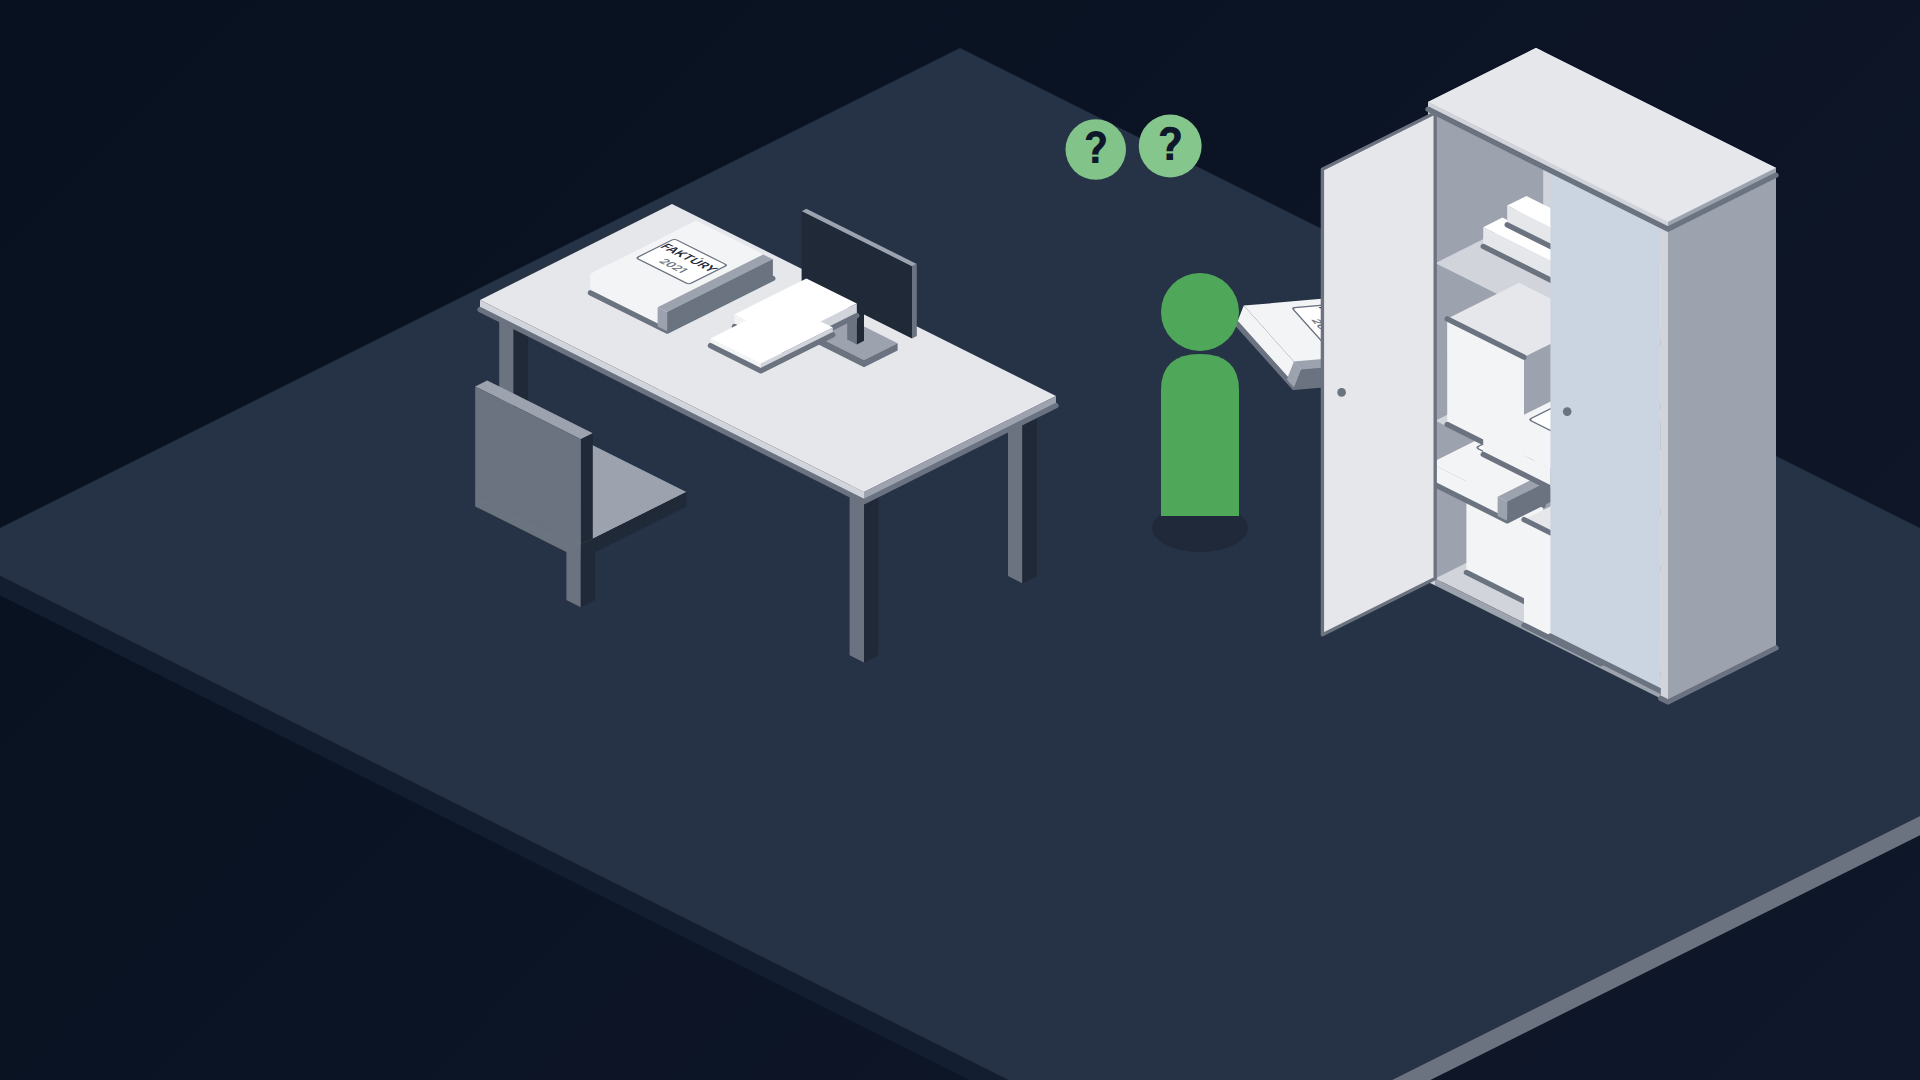
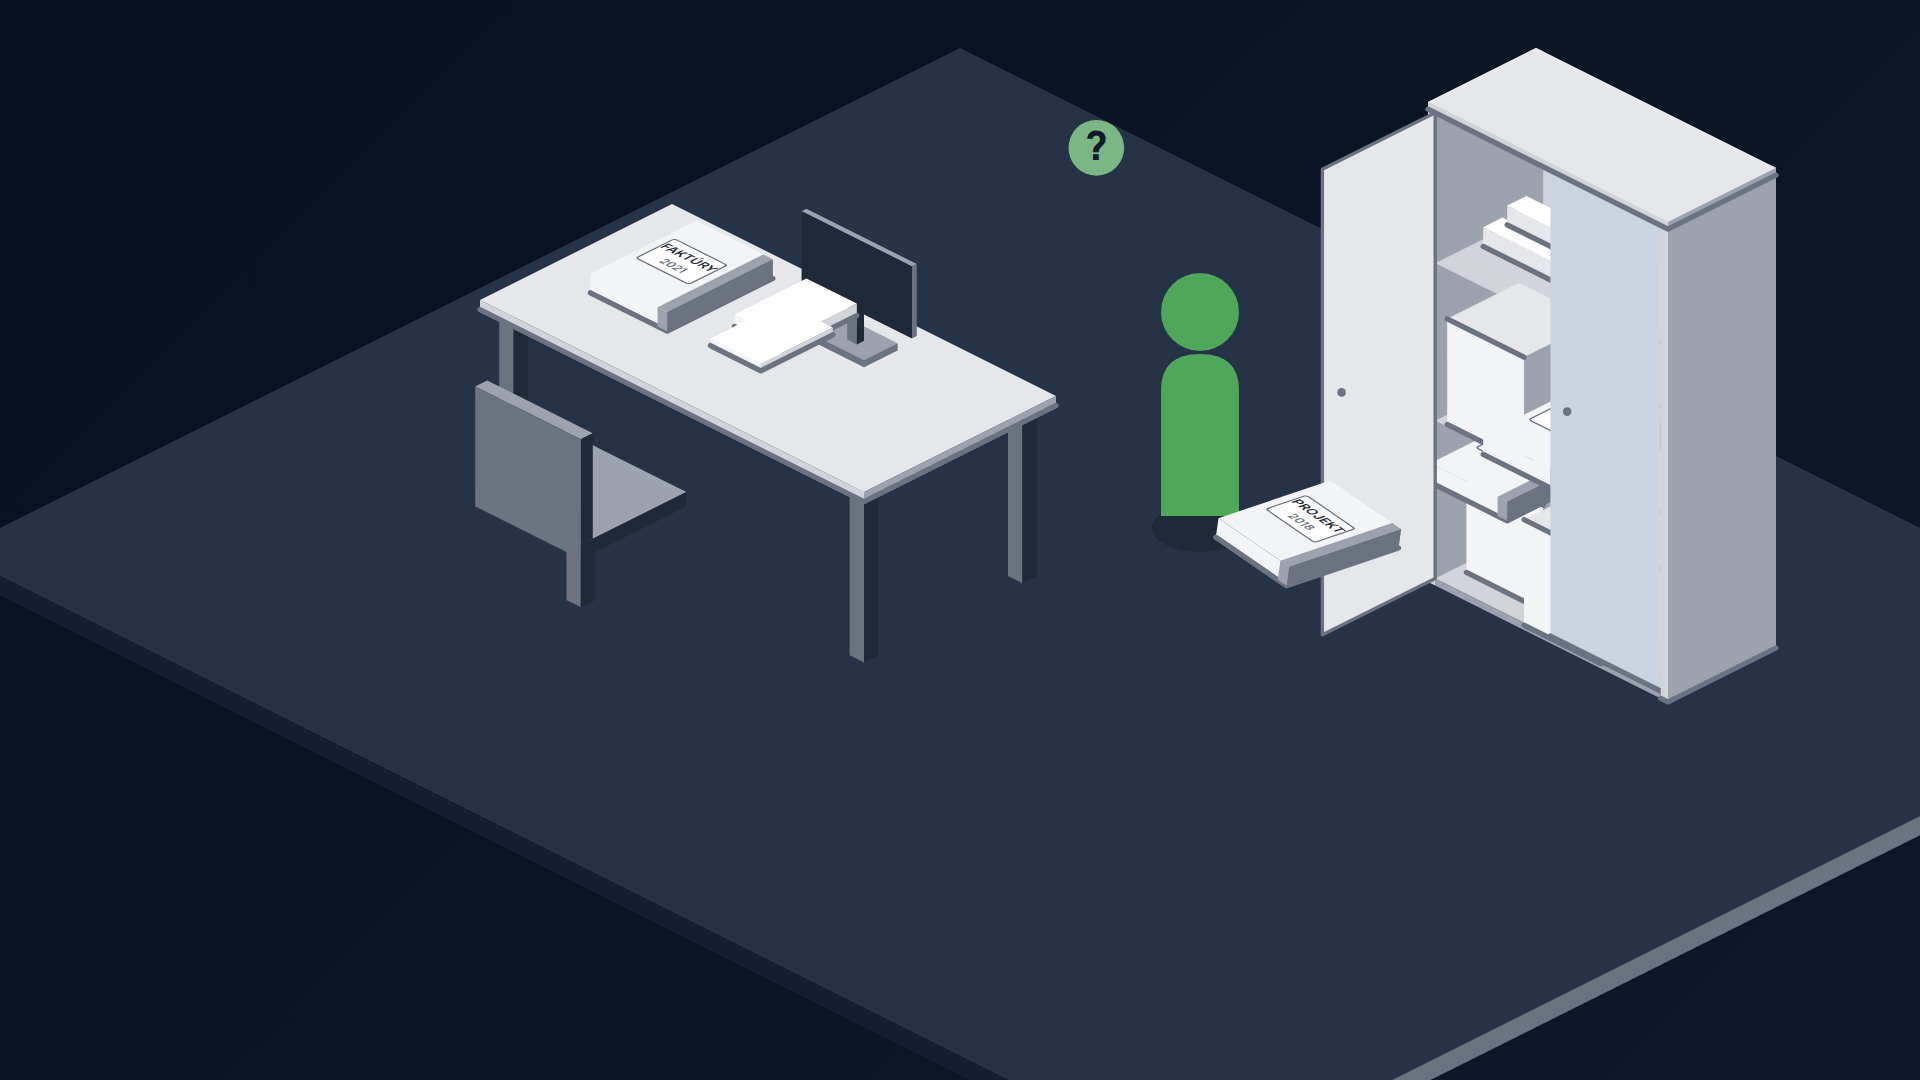
video: kolo 21 – C2-Hladanie: otázniky po vyhodených veciach, prestrih do suterénu, rýchle prehľadanie krabíc (12,5 s)
Claude-Session: https://claude.ai/code/session_0174g5XfE49UzAEjnWwaQFuK

Changed region(s): [[0.625, 0.4583, 0.75, 0.55], [0.625, 0.275, 0.6875, 0.3667], [0.5625, 0.0917, 0.625, 0.1833]]

diff --git a/video/src/scenes/C2_Hladanie.tsx b/video/src/scenes/C2_Hladanie.tsx
@@ -8,26 +8,27 @@ import { Floor, Person, QuestionMark } from '../components/Illustrations';
 import { pop, settle, tween } from '../lib/anim';
 import { captions } from '../copy/sk';
 import { BRAND, CM, ISO, SAFE } from '../theme';
-import { CAM_END, PALLETS, SEARCH_QMS, SHELF_LEVEL, SHELVES, SV, SearchCarton, TARGET_SHELF, VB, searchBox } from './C3_Sklad';
+import { CAM_END, PALLETS, SEARCH_QMS, SHELF_LEVEL, SHELVES, SV, SearchCarton, TARGET_SHELF, VB } from './C3_Sklad';
 
 /**
- * C2 - Hladanie (verzia 2: spojene C2 Kancelaria + C3 Sklad, 14,5 s).
- * Kancelaria: panacik otvori skrinu, "?", vyhodi sanon a rolku, odide doprava.
- * Kamera s nim prejde (pan) do skladu: panacik pride k regalu, kamera
- * najde na policu, obe krabice sa postupne vytiahnu, prehladaju a vratia;
- * "?" nad regalom = zaciatok C4.
+ * C2 - Hladanie (verzia 2: spojene C2 Kancelaria + C3 Sklad, 12,5 s).
+ * Kancelaria: panacik otvori skrinu, vyhodi sanon a rolku (po kazdej veci
+ * vyskoci "?"), odide doprava. Prestrih: sklad je v suterene - platna s
+ * kancelariou sa posunie hore a odhali sklad. Panacik pride k regalu, kamera
+ * najde na policu; prva krabica von, veko, vsetky zlozky naraz hore, "?";
+ * druha to iste; velky "?" nad regalom = zaciatok C4.
  *
- * ms: 0 kancelaria · 300-1100 panacik ku skrini · 1100-1700 dvere · 1400/1900
- * "?" · 2000/2500 vyhodeny sanon a rolka · 3200-4100 panacik odchadza ·
- * 4200-5200 pan do skladu · 4700-6500 chodza k regalu · 5100/5700 "?" ·
- * 6000-7400 kamera na policu, 6500 sklad vybledne · 6500 krabica A von ·
- * 6900-10300 A: otvorit, 3 zlozky, zavriet, zasunut · 9900 krabica B von ·
- * 10300-13700 B to iste · 13800 "?".
+ * ms: 300-1100 panacik ku skrini · 1100-1700 dvere · 2000/2500 vyhodeny
+ * sanon a rolka, 2300/2800 "?" · 3200-4100 panacik odchadza · 4200-5400
+ * prestrih hore (suteren) · 5000-6600 chodza k regalu · 5400/6000 "?" ·
+ * 6300-7600 kamera na policu, 6700 sklad vybledne · 6900-9500 krabica A
+ * (von, veko, zlozky naraz, "?", spat) · 9200-11800 krabica B · 11900 "?".
  */
 const PX = 2.4;
 const CAB = { x: 280, y: 40 };
 const LEVEL = (CM.cabinet.h - 3) / 3;
 const PAN_AT = 4200;
+const PAN_MS = 1200;
 
 const TopLabel: React.FC<{ x: number; y: number; z: number; lines: [string, string] }> = ({ x, y, z, lines }) => {
   const [ox, oy] = iso(x, y, z);
@@ -61,7 +62,7 @@ const Office: React.FC<{ frame: number }> = ({ frame }) => {
   const open = tw(1100, 600);
   const leave = tw(3200, 900); // odide doprava von z framu skor, nez zacne pan
   const qmOut = 1 - tw(3100, 300);
-  const qm = [pop(frame, 1400) * qmOut, pop(frame, 1900) * qmOut];
+  const qm = [pop(frame, 2300) * qmOut, pop(frame, 2800) * qmOut]; // otaznik vyskoci po kazdej vyhodenej veci
   // panacik: ku skrini, potom odchadza doprava (pred skrinou) von z framu
   const atX = CAB.x - 70,
     atY = CAB.y + 70;
@@ -70,8 +71,8 @@ const Office: React.FC<{ frame: number }> = ({ frame }) => {
   const [sx, sy] = iso(px, py, 0);
   // vyhodene veci: sanon a rolka, obluk zo skrine na podlahu, dopad v rade
   const thrown = [
-    { start: 2000, tx: CAB.x - 30, ty: CAB.y + 100, kind: 'b' as const },
-    { start: 2500, tx: CAB.x + 15, ty: CAB.y + 96, kind: 'r' as const },
+    { start: 2000, tx: CAB.x + 5, ty: CAB.y + 106, kind: 'b' as const },
+    { start: 2500, tx: CAB.x + 55, ty: CAB.y + 100, kind: 'r' as const },
   ];
 
   return (
@@ -82,21 +83,6 @@ const Office: React.FC<{ frame: number }> = ({ frame }) => {
       <Lying x={60} y={170} z={75} label={['FAKTÚRY', '2021']} />
       <Papers x={104} y={168} z={75} h={5} />
       <Papers x={112} y={186} z={80} h={3} />
-      {thrown.map((it, i) => {
-        const t = tw(it.start, 700);
-        if (t <= 0) return null;
-        const sxp = CAB.x + 20,
-          syp = CAB.y + 60;
-        const x = sxp + (it.tx - sxp) * t,
-          y = syp + (it.ty - syp) * t;
-        const zz = 90 * (1 - t) + 80 * Math.sin(Math.PI * t);
-        const [cx, cy] = iso(x + 16, y + 15, zz);
-        return (
-          <g key={i} transform={`rotate(${(1 - t) * 40} ${cx} ${cy})`}>
-            {it.kind === 'b' ? <Lying x={x} y={y} z={zz} /> : <Roll x={x} y={y + 8} z={zz} len={90} />}
-          </g>
-        );
-      })}
       <Cabinet x={CAB.x} y={CAB.y} open={open}>
         {[4, 38, 62].map((bx, i) => (
           <Binder key={`b0${i}`} x={CAB.x + 3 + bx} y={CAB.y + 6 + [0, 10, 2][i]} z={3} d={30} />
@@ -113,6 +99,21 @@ const Office: React.FC<{ frame: number }> = ({ frame }) => {
         <Papers x={CAB.x + 62} y={CAB.y + 10} z={2 * LEVEL + 3} h={6} />
       </Cabinet>
       <Person x={sx} y={sy} scale={1.25} color={BRAND[400]} opacity={tw(200, 300)} />
+      {thrown.map((it, i) => {
+        const t = tw(it.start, 700);
+        if (t <= 0) return null;
+        const sxp = CAB.x + 20,
+          syp = CAB.y + 60;
+        const x = sxp + (it.tx - sxp) * t,
+          y = syp + (it.ty - syp) * t;
+        const zz = 90 * (1 - t) + 80 * Math.sin(Math.PI * t);
+        const [cx, cy] = iso(x + 16, y + 15, zz);
+        return (
+          <g key={i} transform={`rotate(${(1 - t) * 40} ${cx} ${cy})`}>
+            {it.kind === 'b' ? <Lying x={x} y={y} z={zz} /> : <Roll x={x} y={y + 8} z={zz} len={90} />}
+          </g>
+        );
+      })}
       {qm.map((s, i) => {
         const bob = Math.sin(frame / 10 + i * 2.1) * 3;
         const [qx, qy] = iso(atX - 46 + i * 30 + Math.sin(frame / 14 + i) * 1.5, atY - 4, 130 + (i % 2) * 18 + bob);
@@ -131,9 +132,17 @@ const PATH: [number, number][] = [
   [305, 120],
   [305, 138],
 ];
+/** Rychle prehladanie: krabica von, veko, vsetky zlozky naraz hore, "?", spat, veko, zasunut (2,2 s). */
+const fastSearch = (tw: (s: number, d: number) => number, start: number) => {
+  const out = tw(start - 400, 400) * (1 - tw(start + 1800, 400));
+  const lid = tw(start, 400) * (1 - tw(start + 1500, 400));
+  const binders = [0, 1, 2].map((i) => tw(start + 300 + i * 60, 300) * (1 - tw(start + 1200, 300))) as [number, number, number];
+  return { out, lid, binders };
+};
+
 const Warehouse: React.FC<{ frame: number }> = ({ frame }) => {
   const tw = (s: number, d: number) => tween(frame, s, d);
-  const walk = tw(4700, 1800); // panacik vojde do skladu, ked je uz sklad v zabere
+  const walk = tw(5000, 1600); // panacik vojde do skladu, ked je uz sklad v zabere
   const seg = Math.min(PATH.length - 2, Math.floor(walk * (PATH.length - 1)));
   const lt = walk * (PATH.length - 1) - seg;
   const px = PATH[seg][0] + (PATH[seg + 1][0] - PATH[seg][0]) * lt;
@@ -142,13 +151,13 @@ const Warehouse: React.FC<{ frame: number }> = ({ frame }) => {
   const walked: [number, number][] = [...PATH.slice(0, seg + 1), [px, py]];
   const pathD = walked.map(([x, y], i) => `${i ? 'L' : 'M'}${iso(x, y, 0).join(' ')}`).join(' ');
   const qm: [number, number, number, number][] = [
-    [140, 60, 5100, 0],
-    [420, 60, 5700, 80],
+    [140, 60, 5400, 0],
+    [420, 60, 6000, 80],
   ];
-  const others = 1 - tw(6500, 500);
-  const A = searchBox(tw, 6900);
-  const B = searchBox(tw, 10300);
-  const qEnd = pop(frame, 13800);
+  const others = 1 - tw(6700, 500);
+  const A = fastSearch(tw, 7300);
+  const B = fastSearch(tw, 9600);
+  const qEnd = pop(frame, 11900);
 
   const Stack: React.FC<{ x: number; y: number }> = ({ x, y }) => (
     <g>
@@ -162,7 +171,7 @@ const Warehouse: React.FC<{ frame: number }> = ({ frame }) => {
   );
 
   return (
-    <Camera keys={[{ ms: 6000, x: 0, y: 0, scale: 1 }, { ms: 7400, ...CAM_END }]}>
+    <Camera keys={[{ ms: 6300, x: 0, y: 0, scale: 1 }, { ms: 7600, ...CAM_END }]}>
       <svg width={1920} height={1080} viewBox={`${VB.x} ${VB.y} ${1920 / SV} ${1080 / SV}`} style={{ position: 'absolute', left: 0, top: 0 }}>
         <g opacity={others}>
           <Floor x={-60} y={-60} w={560} d={560} fill="#263246" edge="#131F31" />
@@ -187,7 +196,7 @@ const Warehouse: React.FC<{ frame: number }> = ({ frame }) => {
                 }
               </ShelfFrame>
               {isTarget
-                ? [7400, 10800].map((ms, k) => {
+                ? [7800, 10100].map((ms, k) => {
                     // bublinka "?" pri vytiahnuti prvej zlozky z kazdej krabice
                     const q = SEARCH_QMS[k];
                     const life = tw(ms, 2000);
@@ -210,12 +219,12 @@ const Warehouse: React.FC<{ frame: number }> = ({ frame }) => {
             <Stack key={i} x={p.x} y={p.y} />
           ))}
           {qm.map(([x, y, s0, z], i) => {
-            const s = pop(frame, s0) * (1 - tw(6000, 500));
+            const s = pop(frame, s0) * (1 - tw(6300, 500));
             const [qx, qy] = iso(x, y, 140 + z);
             return <QuestionMark key={i} x={qx} y={qy} s={s * 1.8} />;
           })}
         </g>
-        <Person x={sx} y={sy} scale={1.4} color={BRAND[400]} opacity={tw(4700, 200) * (1 - tw(6300, 600))} />
+        <Person x={sx} y={sy} scale={1.4} color={BRAND[400]} opacity={tw(5000, 200) * (1 - tw(6500, 600))} />
       </svg>
     </Camera>
   );
@@ -225,19 +234,19 @@ export const C2_Hladanie: React.FC = () => {
   const frame = useCurrentFrame();
   const showCap = useCaptions();
   const tw = (s: number, d: number) => tween(frame, s, d);
-  const pan = tw(PAN_AT, 1000);
+  const pan = tw(PAN_AT, PAN_MS);
 
   return (
     <Scene mode="dark">
-      {/* pan kamery: kancelaria odide dolava, sklad pride sprava (obe navy, spojite) */}
-      <div style={{ position: 'absolute', inset: 0, transform: `translateX(${-1920 * pan}px)` }}>
+      {/* prestrih: sklad je v suterene - platna s kancelariou sa posunie hore a odhali platnu so skladom pod nou */}
+      <div style={{ position: 'absolute', inset: 0, transform: `translateY(${-1080 * pan}px)` }}>
         {pan < 1 ? (
           <div style={{ position: 'absolute', left: 0, top: 0, width: 1920, height: 1080, overflow: 'hidden' }}>
             <Office frame={frame} />
           </div>
         ) : null}
         {pan > 0 ? (
-          <div style={{ position: 'absolute', left: 1920, top: 0, width: 1920, height: 1080, overflow: 'hidden' }}>
+          <div style={{ position: 'absolute', left: 0, top: 1080, width: 1920, height: 1080, overflow: 'hidden' }}>
             <Warehouse frame={frame} />
           </div>
         ) : null}
@@ -245,7 +254,7 @@ export const C2_Hladanie: React.FC = () => {
       {showCap ? (
         <>
           <Caption text={captions.C2} mode="dark" t={settle(frame, 1500)} out={tw(4000, 300)} y={SAFE.captionY} />
-          <Caption text={captions.C2b} mode="dark" t={settle(frame, 8000)} y={SAFE.captionY} />
+          <Caption text={captions.C2b} mode="dark" t={settle(frame, 7800)} y={SAFE.captionY} />
         </>
       ) : null}
     </Scene>

diff --git a/video/src/scenesList.ts b/video/src/scenesList.ts
@@ -18,7 +18,7 @@ export type SceneDef = { component: React.FC; seconds: number; stills: number[] 
 /** Klipy (kolo 3), dlzka v sekundach a frame-y pre stills (zaciatok akcie, stred, koniec). */
 export const SCENE_LIST: [string, SceneDef][] = [
   ['C1-Intro', { component: C1_Intro, seconds: 5, stills: [45, 75, 125] }],
-  ['C2-Hladanie', { component: C2_Hladanie, seconds: 14.5, stills: [70, 180, 340] }],
+  ['C2-Hladanie', { component: C2_Hladanie, seconds: 12.5, stills: [75, 150, 250] }],
   ['C4-Cena', { component: C4_Cena, seconds: 9, stills: [10, 110, 250] }],
   ['C5-Teren', { component: C5_Teren, seconds: 10, stills: [70, 170, 285] }],
   ['F1-Sken', { component: F1_Sken, seconds: 12.5, stills: [30, 200, 350] }],

diff --git a/video/STORYBOARD.md b/video/STORYBOARD.md
@@ -12,7 +12,7 @@ strihový bod pre footage; náhľad Full má tvrdé strihy. Titulky v obraze sú
 | ID | Klip | Pozadie | Dej | Text v obraze | Dĺžka | Stav |
 |---|---|---|---|---|---|---|
 | C1-Intro | Intro | navy | Lockup podľa assetin-design-kitu: stohovaný logotyp „assetin“ / „.space“ vypláva, zvislý oddeľovač sa nakreslí, „Archives“ vyjde spoza neho; hold; „Archives“ sa zasunie späť, oddeľovač sa stiahne, logotyp sa priblíži a vybledne do navy | – | 5 s | ☐ ▶ |
-| C2-Hladanie | Hľadanie (kancelária → sklad) | navy | Panáčik príde ku skrini, otvorí ju, „?“, vyletí šanón a rolka, odíde doprava; kamera s ním prejde panom do skladu; klučkuje k strednému regálu, „?“; kamera nájde na policu, sklad vybledne; prvá krabica sa vytiahne z police, otvorí (vidno steny, dno, zložky), zložky sa postupne vyberú a vrátia (bublinka „?“), zavrie, zasunie; to isté druhá; väčší „?“ nad regálom = začiatok C4 | 1,5 s „Dokumentáciu máte. V kancelárii, v sklade… niekde.“ · 8 s „Len ju nikto nevie nájsť.“ | 14,5 s | ☐ ▶ |
+| C2-Hladanie | Hľadanie (kancelária → sklad) | navy | Panáčik príde ku skrini, otvorí ju, vyletí šanón („?“) a rolka („?“), odíde doprava; prestrih: platňa s kanceláriou ide hore a spod nej sa vysunie sklad (suterén); panáčik klučkuje k strednému regálu, „?“; kamera nájde na policu, sklad vybledne; prvá krabica von, veko, všetky zložky naraz hore, bublinka „?“, späť, zasunúť; druhá to isté; väčší „?“ nad regálom = začiatok C4 | 1,5 s „Dokumentáciu máte. V kancelárii, v sklade… niekde.“ · 7,8 s „Len ju nikto nevie nájsť.“ | 12,5 s | ☐ ▶ |
 | C4-Cena | 2× | navy | Začína rovnakým regálom ako koniec C3; regál sa odsunie doľava, vedľa neho veľký „?“, vedľa hodiny rovnakej veľkosti s točiacou sa ručičkou (hľadanie trvá), šípka k výkresu s pečiatkou (rýchlejšie spraviť nanovo); veľké cenovky pod regálom a výkresom; „2× €€€“ dole v strede | 5,8 s „Zaplatené dvakrát za tú istú dokumentáciu.“ | 9 s | ☐ ▶ |
 | C5-Teren →📹 | V sklade | biela | Zatvorená krabica, priletí hárok nálepiek A4, z neho odletí QR na krabicu (plynulý let 0,7 s, dosadne sklopená do roviny steny); veko sa otvorí, zložky vyjdú a z hárku priletia QR na každú zložku; zložky majú štítky s textom; predná sa vytiahne z krabice, mobil sa k nej priblíži a zameria na štítok, blesk, ID ZL_12 ako štítok pri rámiku; kamera nájde na zložku s mobilom a potom nájazd do displeja → biely frame = strih do reality (footage fotenia štítku) | 5 s „Nalepiť QR, odfotiť. Celá práca v teréne.“ | 10 s | ☐ ▶ |
 | F1-Sken 📹 | Footage: sken štítku | footage | Screen recording z mobilu (2 časti spojené): pridanie jednotky pod KR_01 → Priradiť QR → fotoaparát na štítok s QR → Use Photo → kontrola jednotky → Vytvoriť → nahrávanie prílohy 100 % (zrýchlené 4×). Orez na appku (bez líšt iOS/Safari), vnútri rámika mobilu vľavo; z bieleho konca C5 sa displej stiahne do mobilu; vpravo sprievodný text po krokoch (Krok 1–4) s bodkami postupu; jemné zelené tapy na tlačidlách; fade do bielej (C6) | – | 12,5 s | ☐ ▶ |
@@ -61,7 +61,7 @@ Všetko 1920×1080, 30 fps, H.264, yuv420p (obmedzený rozsah), bez zvuku.
 | Súbor | Obsah |
 |---|---|
 | `out/mp4/C1-Intro.mp4` … `C9-Outro.mp4` | klipy bez textu v obraze (titulky vypnuté, doriešia sa neskôr) |
-| `out/mp4/Full_1080p.mp4` | všetkých 9 klipov za sebou, tvrdé strihy, 82 s – kontrola tempa |
+| `out/mp4/Full_1080p.mp4` | všetkých 9 klipov za sebou, tvrdé strihy, 80 s – kontrola tempa |
 | `out/mp4/Full_preview_540p.mp4` | to isté v polovičnom rozlíšení |
 | `out/mp4/F_phone_enter.mp4`, `F_window_enter.mp4` | placeholder rámika zariadenia (8 s), do ktorého sa v Remotione dá vložiť footage |
 | `out/stills/contact-sheet.png` | stredný frame každého klipu v mriežke |

diff --git a/video/FEEDBACK.md b/video/FEEDBACK.md
@@ -145,3 +145,9 @@ Verzia 1 (dlhá, 88,5 s) je uložená: `out/mp4/v1/` (Full_v1_1080p.mp4, Full_v1
 | Klip | Zadanie | Riešenie |
 |---|---|---|
 | C2 Hľadanie | Teraz je to zas extrémne rýchle; v kancelárii nech vyhodí zo skrine aspoň dve veci; v sklade treba postupne prehľadať obe krabice. | Klip predĺžený z 11 na 14,5 s. Kancelária: vyletí šanón aj rolka (2,0 / 2,5 s), panáčik odchádza až v 3,2 s, pan do skladu 4,2–5,2 s. Sklad: chôdza 1,8 s, kamera na policu 6,0–7,4 s, krabica A sa vytiahne, prehľadá a zasunie (6,5–10,3 s), potom to isté krabica B (9,9–13,7 s), pri každej bublinka „?“; veľký „?“ 13,8 s. Full 82 s. |
+
+## Kolo 21 (22. 9. 2026)
+
+| Klip | Zadanie | Riešenie |
+|---|---|---|
+| C2 Hľadanie | Otázniky v kancelárii až po vytiahnutí položiek (prvá vec → „?“, druhá → „?“). Prebehnutie do skladu je príliš rýchle; radšej prestrih: sklad je v suteréne, platňa s kanceláriou sa posunie hore a odhalí platňu so skladom. V sklade zrýchliť: prvá krabica, všetky zložky naraz vystrčiť, „?“, druhá to isté, a ďalej ďalšia scéna. | „?“ vyskočí 0,3 s po každej vyhodenej veci (2,3 / 2,8 s); vyhodené veci dopadajú pred panáčika (nie pod neho). Prestrih vertikálne: platňa s kanceláriou ide hore (1,2 s, 4,2–5,4 s) a spod nej sa vysunie sklad ako suterén. Sklad: krabica von, veko, všetky tri zložky naraz hore, bublinka „?“, späť, veko, zasunúť (2,6 s na krabicu); A 6,9–9,5 s, B 9,2–11,8 s, veľký „?“ 11,9 s. Klip 12,5 s, Full 80 s. |

diff --git a/video/VOICEOVER.md b/video/VOICEOVER.md
@@ -7,10 +7,10 @@ náhovor ho neopakuje doslova.
 ## C1 · Intro (4 s)
 _(bez náhovoru)_
 
-## C2 · Hľadanie (14,5 s) – verzia 2 (spojené C2 + C3)
+## C2 · Hľadanie (12,5 s) – verzia 2 (spojené C2 + C3)
 - 0–4 s: „Dokumentáciu k svojim objektom máte. V skrini pri stole, v šanónoch, v rolkách paré…“ — _Dokumentáciu máte. V kancelárii, v sklade… niekde._
 - 4–7 s: „…alebo v archíve: palety, regály, krabice bez označenia.“
-- 7–14,5 s: _Len ju nikto nevie nájsť._ — „Jediný spôsob je otvoriť krabicu a prejsť ju zložku po zložke. A potom ďalšiu. A často sa nenájde nič.“
+- 7–12,5 s: _Len ju nikto nevie nájsť._ — „Jediný spôsob je otvoriť krabicu a prejsť ju zložku po zložke. A potom ďalšiu. A často sa nenájde nič.“
 
 ## C4 · Cena (9 s)
 - 0–3 s: „Archív, v ktorom sa nedá hľadať, nie je archív. Je to náklad. Platíte za uskladnenie…“

diff --git a/video/README.md b/video/README.md
@@ -92,5 +92,5 @@ Väčšia firma potrebuje Company License – pozri LICENSE v balíku `remotion`
 
 ## Verzie
 
-- **Verzia 2 (aktuálna, 82 s)**: C2-Hladanie nahrádza C2-Kancelaria + C3-Sklad.
+- **Verzia 2 (aktuálna, 80 s)**: C2-Hladanie nahrádza C2-Kancelaria + C3-Sklad.
 - **Verzia 1 (88,5 s)**: rendre v `out/mp4/v1/` a `out/stills/v1/`; scény ostávajú v `src/scenes/` (`V1_LIST` v `scenesList.ts`, `npm run stills`/`render` ich preskakujú).
